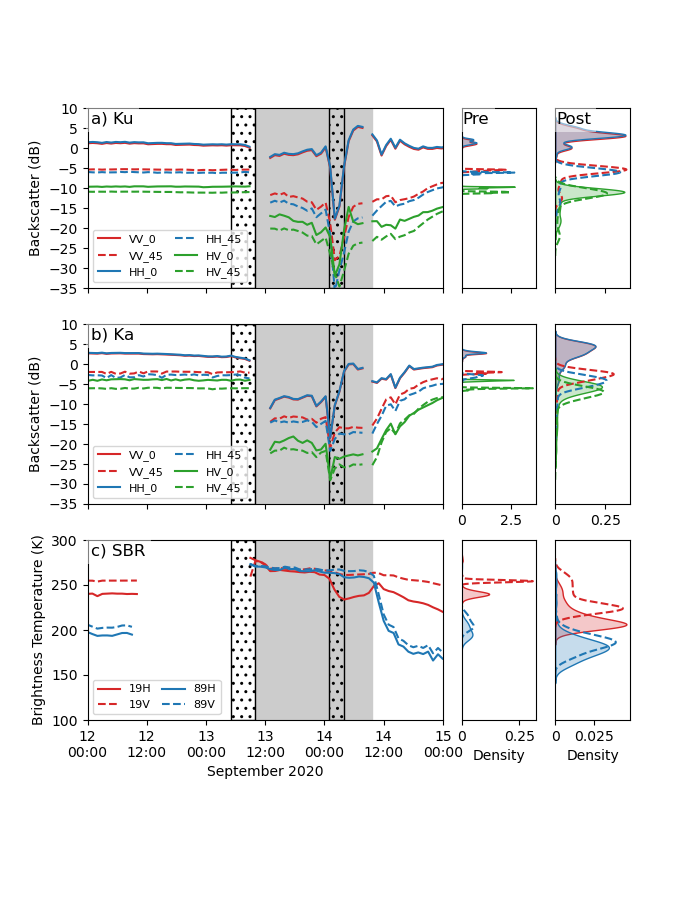
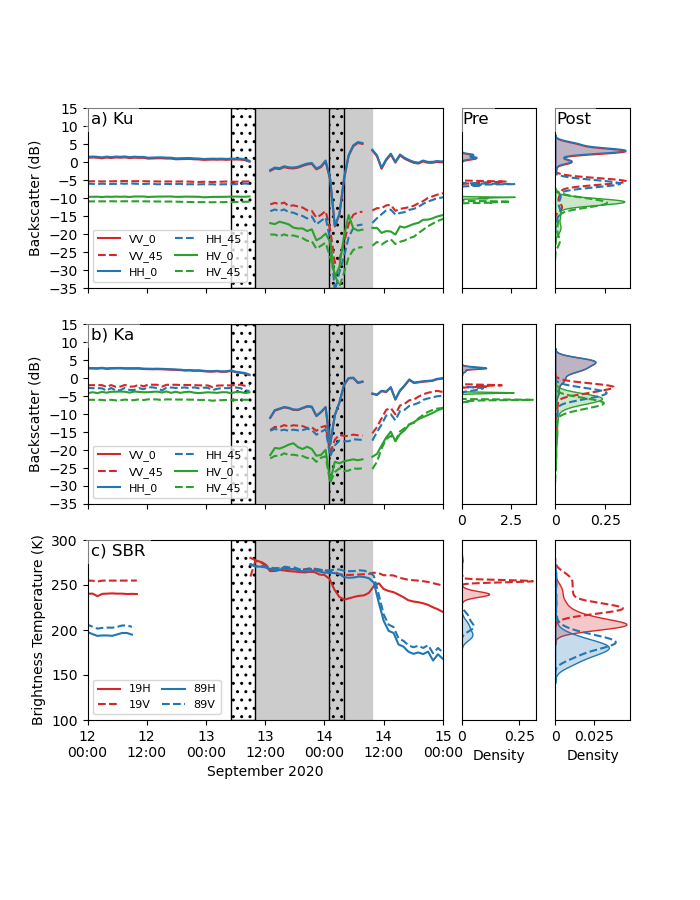
increase ylim on kuka plots

diff --git a/source/plot_microwave.py b/source/plot_microwave.py
@@ -16,14 +16,18 @@ from plotting import (PRE_EVENT,
                       FIGURE_PATH)
 
 
+KUKA_YLIM = (-35, 15)
+KUKA_INT = 5
+KUKA_TICKS = range(KUKA_YLIM[0], KUKA_YLIM[1]+KUKA_INT, KUKA_INT)
+
 def plot_ku(df, ax=None, fig_label=None):
     """Plots Ku radar channels"""
     if not ax: plt.gca()
     plotting.add_panel(ax=ax, fig_label=fig_label)
     df.plot(ax=ax, color=RADAR_COLORS, style=RADAR_LINESTYLES)
-    ax.set_ylim(-35, 5)
+    ax.set_ylim(KUKA_YLIM)
     ax.set_ylabel("Backscatter (dB)")
-    ax.set_yticks(range(-35, 15, 5))
+    ax.set_yticks(KUKA_TICKS)
     ax.legend(loc="lower left", ncol=2)
     return ax
 
@@ -33,9 +37,9 @@ def plot_ka(df, ax=None, fig_label=None):
     if not ax: plt.gca()
     plotting.add_panel(ax=ax, fig_label=fig_label)
     df.plot(ax=ax, color=RADAR_COLORS, style=RADAR_LINESTYLES)
-    ax.set_ylim(-35, 5)
+    ax.set_ylim(KUKA_YLIM)
     ax.set_ylabel("Backscatter (dB)")
-    ax.set_yticks(range(-35, 15, 5))
+    ax.set_yticks(KUKA_TICKS)
     ax.legend(loc="lower left", ncol=2)
     return ax
 
